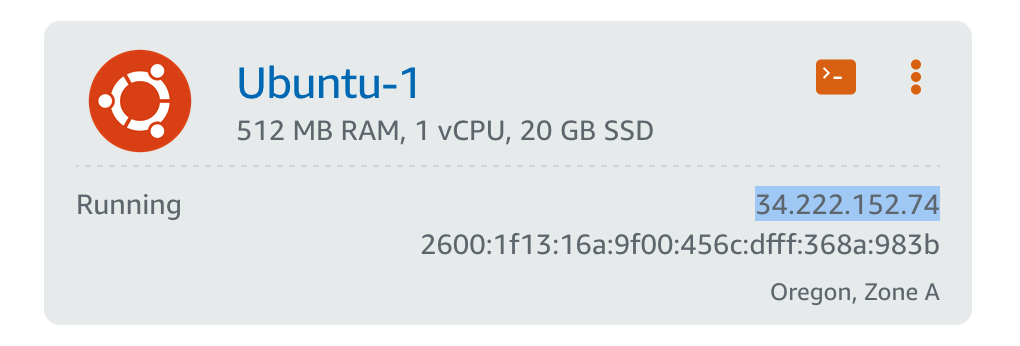
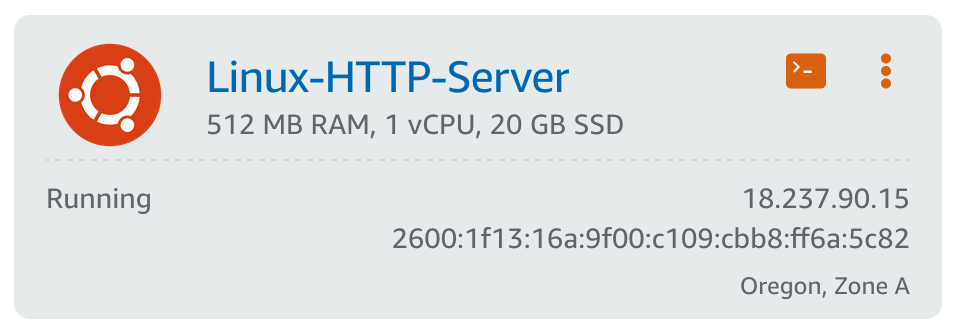
img shuffle

diff --git a/README.md b/README.md
@@ -35,6 +35,10 @@ While the web has progressed a lot, sometimes all you need is a static HTTP serv
 
 ![Select Instance Plan Screenshot](/img/plan.png)
 
+* Give your instance a name, for this project I used ```Linux-HTTP-Server```.
+
+![Select Instance Name Screenshot](/img/name.png)
+
 * Click the ```Create instance``` button to finish initializing your instance.
 
 ![Create Screenshot](/img/create.png)
